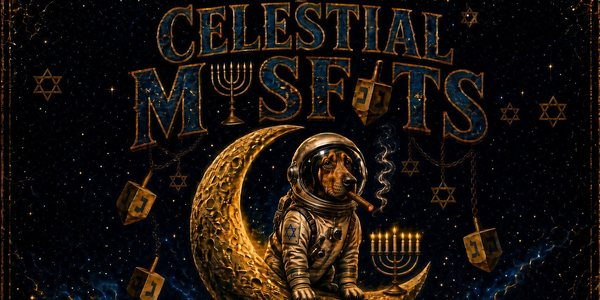
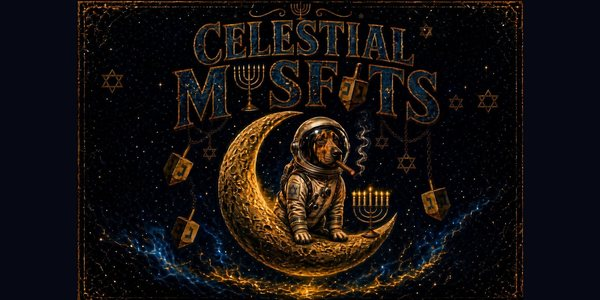
Home: smaller, simpler season cards (whole pictures, details on each season's page)
Claude-Session: https://claude.ai/code/session_01HtssrXxtTk5qDtDVgqLmHJ

diff --git a/index.html b/index.html
@@ -106,11 +106,11 @@ p { margin: 0 0 12px; }
 @media (max-width: 760px) { .creed { grid-template-columns: 1fr; } .creed img { max-width: 260px; justify-self: center; } }
 
 /* Seasons */
-.seasons { display: grid; grid-template-columns: repeat(auto-fill, minmax(250px, 1fr)); gap: 16px; margin-top: 22px; }
+.seasons { display: grid; grid-template-columns: repeat(auto-fill, minmax(170px, 1fr)); gap: 12px; margin-top: 22px; }
 .season { background: var(--sky-2); border: 1px solid var(--sky-3); border-radius: 12px; overflow: hidden; display: flex; flex-direction: column; }
-.season img { display: block; width: 100%; aspect-ratio: 2 / 1; object-fit: cover; }
-.season .body { padding: 12px 14px 14px; display: grid; gap: 4px; }
-.season h3 { margin: 0; font-size: 16px; font-weight: 700; display: flex; align-items: center; gap: 8px; flex-wrap: wrap; }
+.season img { display: block; width: 100%; height: auto; aspect-ratio: 2 / 1; object-fit: contain; background: #060814; }
+.season .body { padding: 8px 10px 10px; display: grid; gap: 2px; }
+.season h3 { margin: 0; font-size: 14px; font-weight: 700; display: flex; align-items: center; gap: 8px; flex-wrap: wrap; }
 .season .when { font-family: var(--mono); font-size: 12.5px; color: var(--moon-dim); font-variant-numeric: tabular-nums; }
 .season .tok { font-size: 13.5px; color: var(--moon-dim); }
 .season .tok b { color: var(--moon); font-weight: 500; }
@@ -400,7 +400,7 @@ grid.innerHTML = list.map(s => {
     <div class="body">
       <h3>${s.page ? `<a href="${s.page}">${s.name}</a>` : s.name} ${chip}</h3>
       <div class="when">${when}</div>
-      <div class="tok">Token: <b>${s.token}</b>${s.note ? " · " + s.note : ""} · <code class="cmd">/${s.cmd}</code></div>
+
     </div></article>`;
 }).join("");
 
